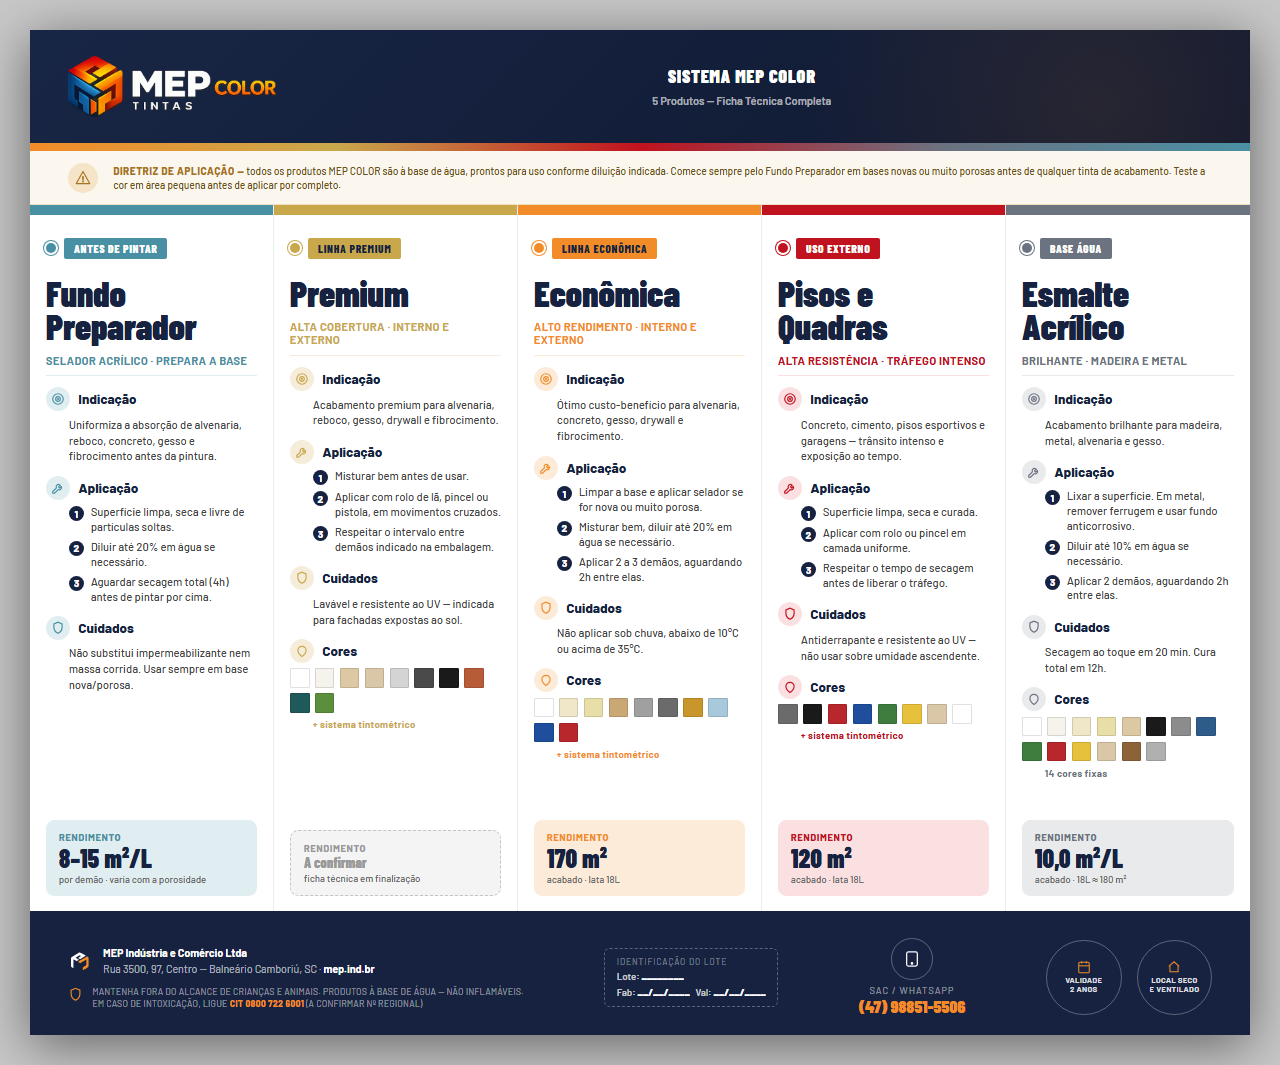
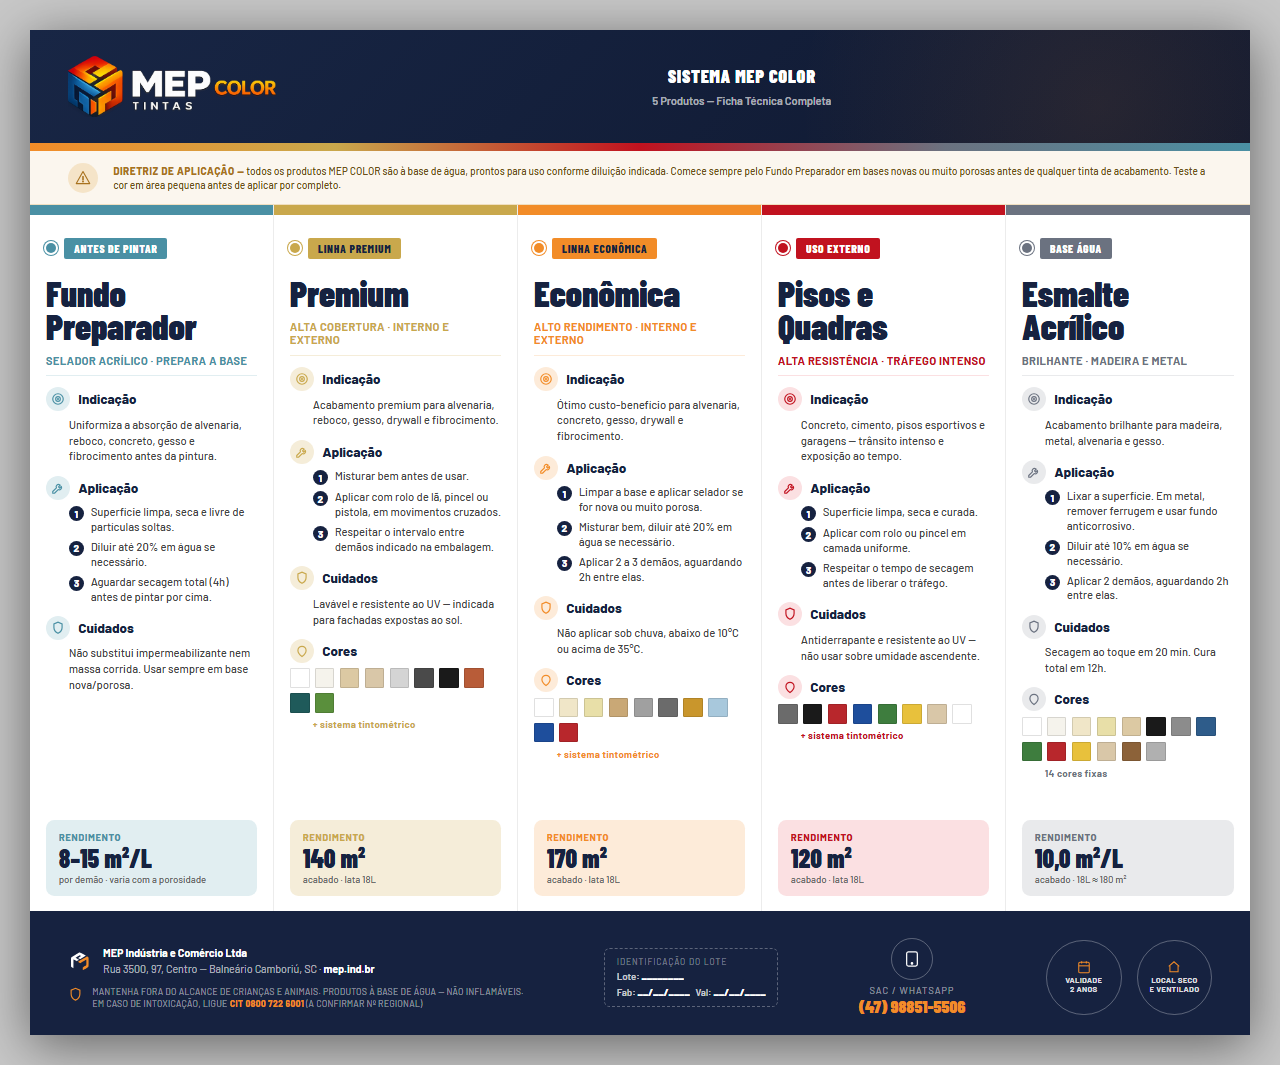
Adiciona rendimento real da Premium no rotulo MEP COLOR (140m acabado, lata 18L)

Changed region(s): [[0.2188, 0.7437, 0.4062, 0.8676]]

diff --git a/marketing/conteudo/rotulo-mep-color-18l-2026-06-27/rotulo-verso-sistema.html b/marketing/conteudo/rotulo-mep-color-18l-2026-06-27/rotulo-verso-sistema.html
@@ -327,10 +327,10 @@ body { margin:0; padding:30px; background:#c8c8c8; display:flex; justify-content
         <div class="cores-note">+ sistema tintométrico</div>
       </div>
 
-      <div class="rend-chip pending">
+      <div class="rend-chip">
         <div class="rend-label">Rendimento</div>
-        <div class="rend-value">A confirmar</div>
-        <div class="rend-note">ficha técnica em finalização</div>
+        <div class="rend-value">140 m²</div>
+        <div class="rend-note">acabado · lata 18L</div>
       </div>
     </div>
 
